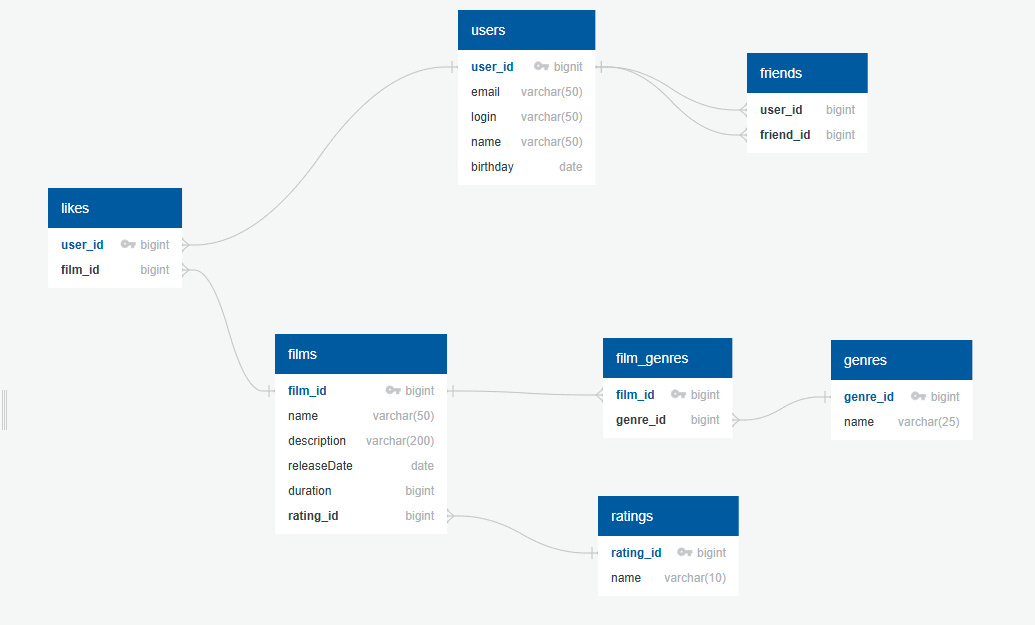
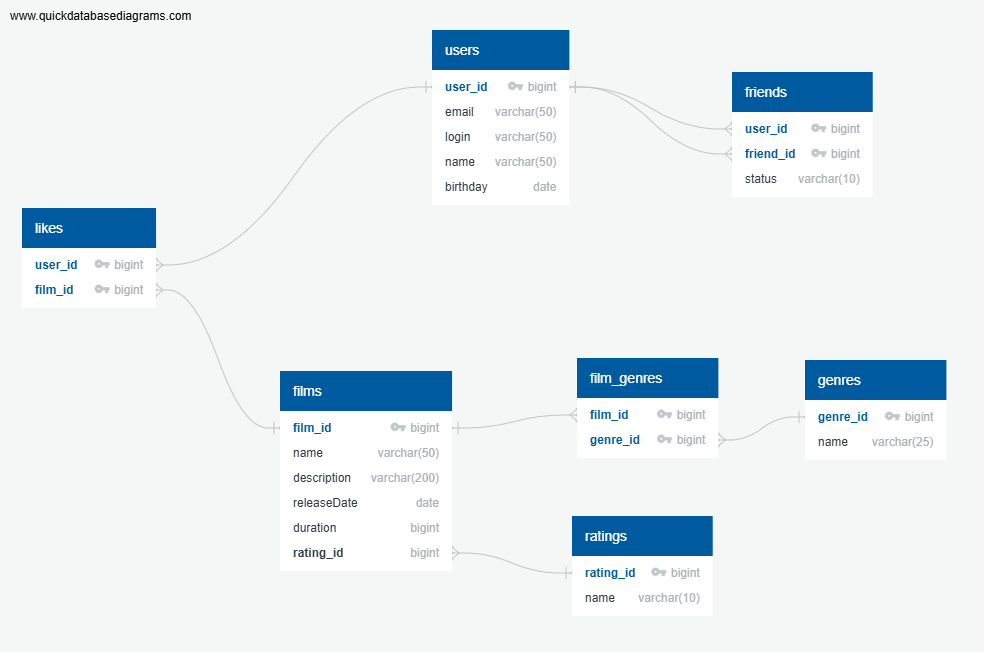
Изменить модели

diff --git a/src/main/java/ru/yandex/practicum/filmorate/model/Film.java b/src/main/java/ru/yandex/practicum/filmorate/model/Film.java
@@ -3,7 +3,9 @@ package ru.yandex.practicum.filmorate.model;
 import jakarta.validation.constraints.NotBlank;
 import jakarta.validation.constraints.Positive;
 import jakarta.validation.constraints.Size;
+import lombok.AllArgsConstructor;
 import lombok.Data;
+import lombok.NoArgsConstructor;
 
 import java.time.LocalDate;
 import java.util.Set;
@@ -24,7 +26,27 @@ Film {
     @Positive(message = "Продолжительность фильма должна быть положительным числом")
     private int duration;
 
+    private Mpa mpaRating;
+
+    private Set<Genre> genres;
+
     private Set<Long> likes;
+
+    @Data
+    @AllArgsConstructor
+    @NoArgsConstructor
+    public static class Mpa {
+        private Long id;
+        private String name;
+    }
+
+    @Data
+    @AllArgsConstructor
+    @NoArgsConstructor
+    public static class Genre {
+        private Long id;
+        private String name;
+    }
 
     public void addLike(Long id) {
         likes.add(id);

diff --git a/src/main/java/ru/yandex/practicum/filmorate/model/User.java b/src/main/java/ru/yandex/practicum/filmorate/model/User.java
@@ -4,6 +4,7 @@ import jakarta.validation.constraints.*;
 import lombok.Data;
 
 import java.time.LocalDate;
+import java.util.Map;
 import java.util.Set;
 
 @Data
@@ -24,6 +25,8 @@ public class User {
     private LocalDate birthday;
 
     private Set<Long> friends;
+
+    private Map<Long, String> friendStatuses;
 
     public void addFriend(Long id) {
         friends.add(id);
